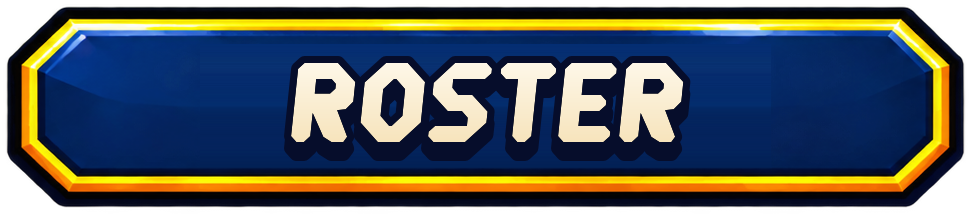
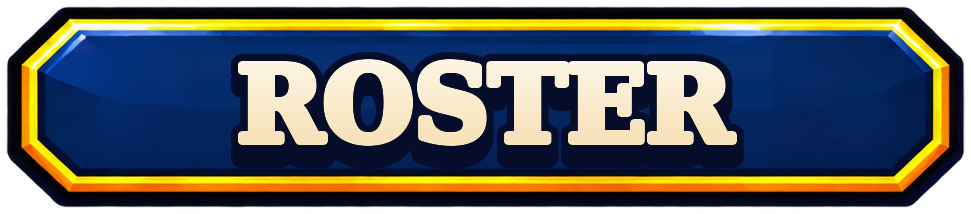
Roster page: the camera backs off to fit the whole model, ROSTER button in the menu's slab serif, room for a 10 and the counter
Claude-Session: https://claude.ai/code/session_0112BkhwePAB2Sjdo3gVJrBS

Changed region(s): [[0.2163, 0.2243, 0.7724, 0.785]]

diff --git a/Assets/_Project/Scripts/View/RosterStage.cs b/Assets/_Project/Scripts/View/RosterStage.cs
@@ -8,6 +8,8 @@ namespace PocketFootball.View
     // never reaches it, its own camera sees nothing past a few metres), lit by the same sun as the field: the camera
     // stands on the sun's side, roster.turnDeg round from it, so the light falls on his front. He stands still in his
     // standing pose (baked, like the sideline players), in the team's own colours and a jersey number of his own.
+    // The camera backs off until all of him fits, roster.frameMargin times his size (the models differ in height and
+    // build, the linebacker's shoulder pads are wide).
     public sealed class RosterStage : MonoBehaviour
     {
         static readonly Vector3 Spot = new Vector3(5000f, -400f, 0f);
@@ -16,6 +18,9 @@ namespace PocketFootball.View
         Camera cam;
         RenderTexture rt;
         Transform man;
+        Vector3 view;     // from the spot toward the camera, flat
+        Bounds body;      // all of him (world space)
+        bool hasBody;
         string shown;   // team/model on the stage now
 
         public static RosterStage Build(GameConfig cfg)
@@ -33,17 +38,16 @@ namespace PocketFootball.View
             Vector3 toSun = RenderSettings.sun != null ? -RenderSettings.sun.transform.forward : Vector3.right;
             toSun.y = 0f;
             if (toSun.sqrMagnitude < 1e-4f) toSun = Vector3.right;
-            Vector3 view = Quaternion.AngleAxis(r.turnDeg, Vector3.up) * toSun.normalized;
+            s.view = Quaternion.AngleAxis(r.turnDeg, Vector3.up) * toSun.normalized;
             var camGo = new GameObject("RosterCamera");
             camGo.transform.SetParent(go.transform, false);
-            camGo.transform.localPosition = view * r.cameraDistM + Vector3.up * r.cameraHeightM;
-            camGo.transform.LookAt(Spot + Vector3.up * r.lookHeightM);
+            camGo.transform.localPosition = s.view * cfg.view.playerHeightM * 2f;
             s.cam = camGo.AddComponent<Camera>();
             s.cam.clearFlags = CameraClearFlags.SolidColor;
             s.cam.backgroundColor = Colors.Hex(r.backdrop);
             s.cam.fieldOfView = r.fovDeg;
             s.cam.nearClipPlane = 0.1f;
-            s.cam.farClipPlane = r.cameraDistM * 3f;
+            s.cam.farClipPlane = cfg.view.playerHeightM * 10f;
             s.cam.enabled = false;   // (on while the page shows: Picture)
             return s;
         }
@@ -60,6 +64,7 @@ namespace PocketFootball.View
             }
             cam.enabled = true;
             Dress(team, card);
+            Frame();
             return rt;
         }
 
@@ -90,6 +95,27 @@ namespace PocketFootball.View
             ModelSkin.Freeze(fig, FootballFigure.PoseKind.Stand);
             JerseyMarks.SetNumber(man.gameObject, cfg, number);
             JerseyMarks.SetSkin(man.gameObject, cfg, card.Model, JerseyMarks.SkinPick(number));
+            hasBody = false;
+            foreach (var rend in man.GetComponentsInChildren<Renderer>())
+            {
+                if (!hasBody) { body = rend.bounds; hasBody = true; }
+                else body.Encapsulate(rend.bounds);
+            }
+        }
+
+        // The camera along `view`, far enough back that his height (and his width, on a narrow picture) fits.
+        void Frame()
+        {
+            float h = hasBody ? body.size.y : cfg.view.playerHeightM;
+            float wide = hasBody ? Mathf.Max(body.size.x, body.size.z) : h * 0.5f;
+            Vector3 aim = hasBody ? body.center : transform.position + Vector3.up * h * 0.5f;
+            float m = Mathf.Max(1f, cfg.roster.frameMargin);
+            float halfV = Mathf.Tan(cam.fieldOfView * 0.5f * Mathf.Deg2Rad);
+            float halfH = halfV * Mathf.Max(0.1f, cam.aspect);
+            float dist = Mathf.Max(h * m * 0.5f / halfV, wide * m * 0.5f / halfH) + wide * 0.5f;
+            cam.transform.position = aim + view * dist;
+            cam.transform.LookAt(aim);
+            cam.farClipPlane = dist * 3f;
         }
 
         void OnDestroy()

diff --git a/tools/title/roster_button.py b/tools/title/roster_button.py
@@ -1,13 +1,15 @@
 # The title's ROSTER button, made from the SETTINGS button: the word painted out with the plate's own navy (each row
-# copied across from a column clear of the letters), then ROSTER in Pocket Block, cream with a dark ink edge and a
-# drop, like the other buttons. Needs Pillow:  python tools/title/roster_button.py
+# copied across from a column clear of the letters), then ROSTER in a heavy upright slab serif (DejaVu Serif Bold,
+# fattened), cream with a dark ink edge and a drop, close to the block letters of the other buttons.
+# Needs Pillow and the DejaVu fonts:  python tools/title/roster_button.py
 import os
 
 from PIL import Image, ImageDraw, ImageFilter, ImageFont
 
 root = os.path.abspath(os.path.join(os.path.dirname(__file__), '..', '..'))
 title = os.path.join(root, 'Assets', '_Project', 'Resources', 'Title')
-ttf = os.path.join(root, 'Assets', '_Project', 'Resources', 'Fonts', 'PocketBlock.ttf')
+ttf = '/usr/share/fonts/truetype/dejavu/DejaVuSerif-Bold.ttf'
+fat = 4   # the letters fattened this many px all round, toward the varsity block
 
 src = Image.open(os.path.join(title, 'ButtonSettings.png')).convert('RGBA')
 W, H = src.size
@@ -21,19 +23,19 @@ for y in range(y0, y1):
         px[x, y] = c
 
 text = 'ROSTER'
-size = 112
+size = 104
 font = ImageFont.truetype(ttf, size)
 box = font.getbbox(text)
 tw, th = box[2] - box[0], box[3] - box[1]
 tx, ty = (W - tw) // 2 - box[0], (H - th) // 2 - box[1] - 4
-edge = 7
+edge = 7 + fat
 ink = (6, 13, 43, 255)
 layer = Image.new('RGBA', (W, H), (0, 0, 0, 0))
 d = ImageDraw.Draw(layer)
 d.text((tx, ty + edge + 5), text, font=font, fill=ink, stroke_width=edge, stroke_fill=ink)   # the drop
 d.text((tx, ty), text, font=font, fill=ink, stroke_width=edge, stroke_fill=ink)              # the edge
 fill = Image.new('RGBA', (W, H), (0, 0, 0, 0))
-ImageDraw.Draw(fill).text((tx, ty), text, font=font, fill=(255, 255, 255, 255))
+ImageDraw.Draw(fill).text((tx, ty), text, font=font, fill=(255, 255, 255, 255), stroke_width=fat, stroke_fill=(255, 255, 255, 255))
 # cream, a touch warmer toward the bottom (like SETTINGS)
 grad = Image.new('RGBA', (W, H))
 gp = grad.load()

diff --git a/Assets/_Project/Scripts/Boot/TitleScreen.Roster.cs b/Assets/_Project/Scripts/Boot/TitleScreen.Roster.cs
@@ -103,7 +103,7 @@ namespace PocketFootball.Boot
             var card = cards[rosterCard];
 
             // the picture, on the left, with ◄ ► either side
-            float top = r.y + 168 * s, bottom = r.yMax - 92 * s;
+            float top = r.y + 168 * s, bottom = r.yMax - 136 * s;
             float ph = bottom - top, pw = Mathf.Min(ph * 0.8f, r.width * 0.4f);
             var pic = new Rect(r.x + pad + 44 * s, top, pw, ph);
             Fill(new Rect(pic.x - 5 * s, pic.y - 5 * s, pic.width + 10 * s, pic.height + 10 * s), gold);
@@ -195,7 +195,7 @@ namespace PocketFootball.Boot
         // A rating as pips: `value` of `max` lit gold, the rest dim, and the number after them.
         void Pips(Rect at, int value, int max, float s)
         {
-            float numW = 30 * s, gap = Mathf.Max(1f, 3 * s);
+            float numW = 44 * s, gap = Mathf.Max(1f, 3 * s);
             float pw = (at.width - numW - gap * (max - 1)) / max;
             for (int i = 0; i < max; i++)
             {

diff --git a/Assets/_Project/Scripts/Sim/RosterCards.cs b/Assets/_Project/Scripts/Sim/RosterCards.cs
@@ -87,9 +87,9 @@ namespace PocketFootball.Sim
         public SortedDictionary<string, string> posNotes = new SortedDictionary<string, string>(StringComparer.Ordinal);
         public List<RosterModel> models = new List<RosterModel>();
         public int ratingMax;
-        // the model on the page: the camera this far in front of him and this high (metres), the lens, and his turn
-        // toward the camera's left (degrees, so the light falls on his front)
-        public float cameraDistM, cameraHeightM, lookHeightM, fovDeg, turnDeg;
+        // the model on the page: the lens, the camera's turn round from the sun (degrees, so the light falls on his
+        // front), and how much room round him (1.2: his size and a tenth more each side)
+        public float fovDeg, turnDeg, frameMargin;
         public string backdrop, floor;
 
         public RosterModel For(string model)
